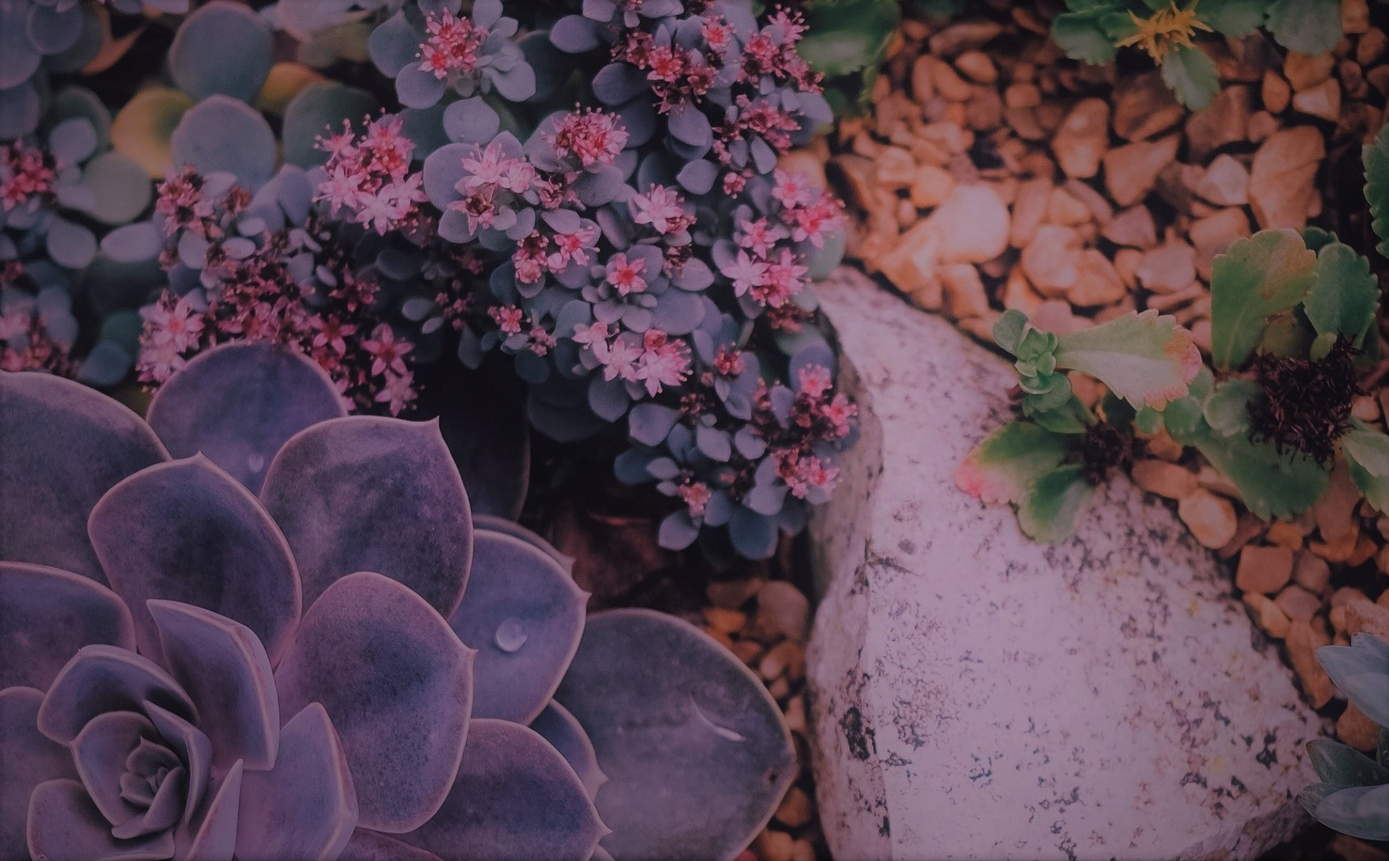
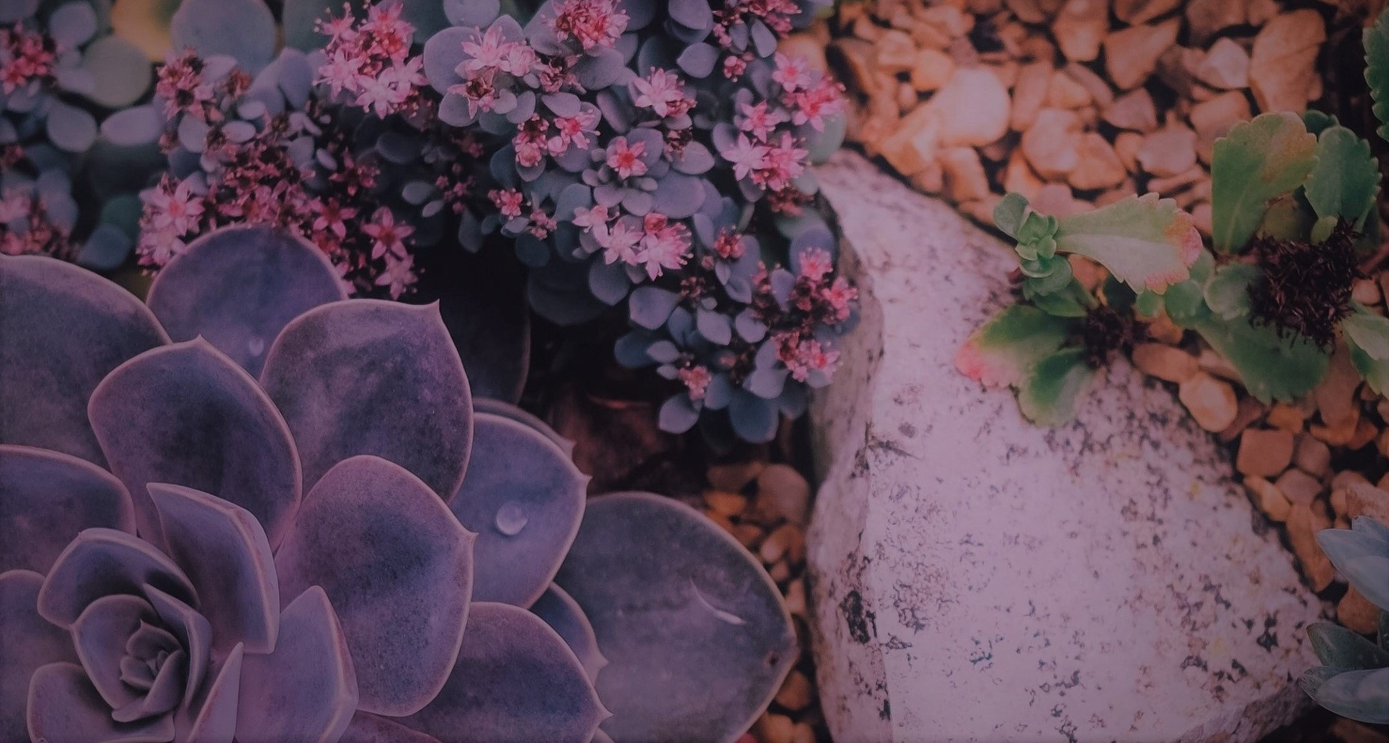
trang sản phẩm

diff --git a/css/style.css b/css/style.css
@@ -24,7 +24,6 @@ body {
 }
 
 
-
 /* Text About */
 
 .text-about {
@@ -94,7 +93,6 @@ h5 {
 }
 
 
-
 /* Form Contact */
 
 .form-control {
@@ -119,12 +117,12 @@ h5 {
 
 
 @media (min-width: 1200px) {
-  .container {
-    width: 1600px;
-  }
+    .container {
+        width: 1600px;
+    }
 }
 
-.product{
+.product {
     height: 615px;
     padding: 50px 0px 0px 0px;
 }
@@ -215,8 +213,6 @@ div#contact {
 }
 
 
-
-
 /* Footer Of Website */
 
 footer .glyphicon {
@@ -224,13 +220,13 @@ footer .glyphicon {
     margin-bottom: 20px;
 }
 
-.add-wb{
+.add-wb {
     background-color: #B97F6D;
     height: 450px;
     position: relative;
 }
 
-.content-footer{
+.content-footer {
     color: #fff;
     position: absolute;
     left: 25%;
@@ -238,18 +234,18 @@ footer .glyphicon {
     top: 15%;
 }
 
-.ltsp-add{
+.ltsp-add {
     letter-spacing: 7px;
     margin-bottom: 20px;
 }
 
-.oph-str{
+.oph-str {
     float: right;
     height: 150px;
     width: 50%;
 }
 
-.add-str{
+.add-str {
     float: left;
     height: 150px;
     width: 50%;
@@ -257,7 +253,7 @@ footer .glyphicon {
     border-right: 1px solid #fff;
 }
 
-.subsc{
+.subsc {
     color: #fff;
     position: absolute;
     left: 25%;
@@ -265,15 +261,16 @@ footer .glyphicon {
     height: 100px;
 }
 
-h6{
+h6 {
     letter-spacing: 0.25px;
     font-size: 13px;
 }
 
-div#map{
-    height:450px;
-    width:100%;
+div#map {
+    height: 450px;
+    width: 100%;
 }
+
 
 /* Navigation bar */
 
@@ -288,7 +285,7 @@ div#map{
 }
 
 .navbar .navbar-brand {
-    font-family: 'GroteskBoldCond' ;
+    font-family: 'GroteskBoldCond';
     color: #B97F6D !important;
 }
 
@@ -330,9 +327,6 @@ div#map{
 }
 
 
-
-
-
 /*Slide An Image */
 
 .slideanim {
@@ -349,9 +343,6 @@ div#map{
     /* Make the element visible */
     visibility: visible;
 }
-
-
-
 
 
 /* Go from 0% to 100% opacity (see-through) and specify the percentage from when to slide in the element along the Y-axis */
@@ -379,39 +370,38 @@ div#map{
 }
 
 
-
-
-
 /* Parallax Scrolling Effect */
 
 .parallax {
     background-attachment: fixed;
-    background-position: center;
+    background-position: top;
     background-repeat: no-repeat;
     background-size: cover;
 }
 
 div#home {
     background-image: url("../image/bg-head.jpg");
-    height: 850px;
-    margin-top: 30px;
+    height: 800px;
+    margin-top: 50px;
 }
 
-div#login{
+div#login {
     background-image: url("../image/bg-head.jpg");
     height: 800px;
-    margin-top: 30px;
-    position: inherit;
+    margin-top: 50px;
 }
 
-div#san-pham{
-    
+div#header-title {
+    height: 600px;
+    margin-top: 50px;
+    background-position: top;
+    background-size: cover;
 }
 
 div#contact {
     background-image: url("../image/bg-head.jpg");
     height: 800px;
-    margin-top: 30px;
+    margin-top: 50px;
 }
 
 
@@ -508,9 +498,6 @@ div#contact {
 }
 
 
-
-
-
 /* Dropdown Navbar */
 
 .dropdown-menu {
@@ -565,28 +552,41 @@ div#goTop {
 
 
 .form-control::-webkit-input-placeholder {
-   color: #B97F6D;
-}
- 
-.form-control:-moz-placeholder { /* Firefox 18- */
-   color: #B97F6D;  
-}
- 
-.form-control::-moz-placeholder {  /* Firefox 19+ */
-   color: #B97F6D;  
-}
- 
-.form-control:-ms-input-placeholder {  
-   color: #B97F6D;  
+    color: #B97F6D;
 }
 
-.form-login{
+.form-control:-moz-placeholder {
+    /* Firefox 18- */
+    color: #B97F6D;
+}
+
+.form-control::-moz-placeholder {
+    /* Firefox 19+ */
+    color: #B97F6D;
+}
+
+.form-control:-ms-input-placeholder {
+    color: #B97F6D;
+}
+
+.form-login {
     width: 450px;
     height: auto;
 }
 
-input.form-login{
+input.form-login {
     width: 100%;
     display: block;
     float: left;
+}
+
+/* Product Site */
+div#main-prod{
+    width: 100%;
+    height: 100px;
+}
+
+.filter{
+    height: 100px;
+    border-right: 1px solid #B97F6D;
 }

diff --git a/modules/contents/san-pham.php b/modules/contents/san-pham.php
@@ -1,4 +1,17 @@
-<div id="product" class="parallax text-center">
-	<h2 style="font-family: 'GroteskBoldCond'; font-size: 112px; color: #fff; letter-spacing: 13.5px; padding-top: 100px;"> Welcome</h1>
+
+<div id="header-title" class="text-center" style="background-image: url('image/bg.jpg');">
+	<h2 style="font-family: 'GroteskBoldCond'; font-size: 100px; color: #fff; letter-spacing: 13.5px; padding-top: 100px;">XUXU LIPSTICK STORE</h2>
 	<hr  width="10px" color="#fff" style="border:2px solid #fff" />
+	<h3 style="font-family: 'Montserrat', sans-serif; letter-spacing:0px; color: #fff; font-size: 18px">XuxuLipstick là dòng son tươi thiên nhiên cao cấp, 100% không chì</h3>
+	<h3 style="font-family: 'Montserrat', sans-serif; letter-spacing:0px; color: #fff; font-size: 18px">Chất son siêu lì, mịn, bôi đến đâu từng lớp son như ngấm vào môi</h3>
+	<a href="" style="color: #666; border: 1px solid #fff; border-radius: 100%; padding: 17px 10px 5px 10px; background-color: #fff; top: 50px;"><span  style="margin-top: 30px; font-size: 20px;" class="glyphicon glyphicon-chevron-down"></span></a>
+</div>
+
+<div id="main-prod" class="text-center" >
+	<div class="filter col-sm-2">
+		
+	</div>
+	<div class="prod">
+		<h1>Hello</h1>
+	</div>
 </div>

diff --git a/modules/contents/home.php b/modules/contents/home.php
@@ -127,28 +127,21 @@
 
 <script>
 $(document).ready(function(){
-  // Add smooth scrolling to all links in navbar + footer link
   $(".navbar a").on('click', function(event) {
 
-   // Make sure this.hash has a value before overriding default behavior
   if (this.hash !== "") {
 
-    // Prevent default anchor click behavior
     event.preventDefault();
 
-    // Store hash
     var hash = this.hash;
 
-    // Using jQuery's animate() method to add smooth page scroll
-    // The optional number (900) specifies the number of milliseconds it takes to scroll to the specified area
     $('html, body').animate({
       scrollTop: $(hash).offset().top
     }, 900, function(){
 
-      // Add hash (#) to URL when done scrolling (default click behavior)
       window.location.hash = hash;
       });
-    } // End if
+    }
   });
 
 //Slide Image

diff --git a/modules/contents/log-in.php b/modules/contents/log-in.php
@@ -14,9 +14,9 @@
 			if ($error == 'unknow') {
 				echo "Please enter username and password";
 			}elseif ($error == 'unknowuser') {
-				echo "Username is not";
+				echo "Username is invalid";
 			}elseif ($error == 'unknowpass') {
-				echo "Sai mật khẩu";
+				echo "Password is invalid";
 			}else {
 				echo " ";
 			}
